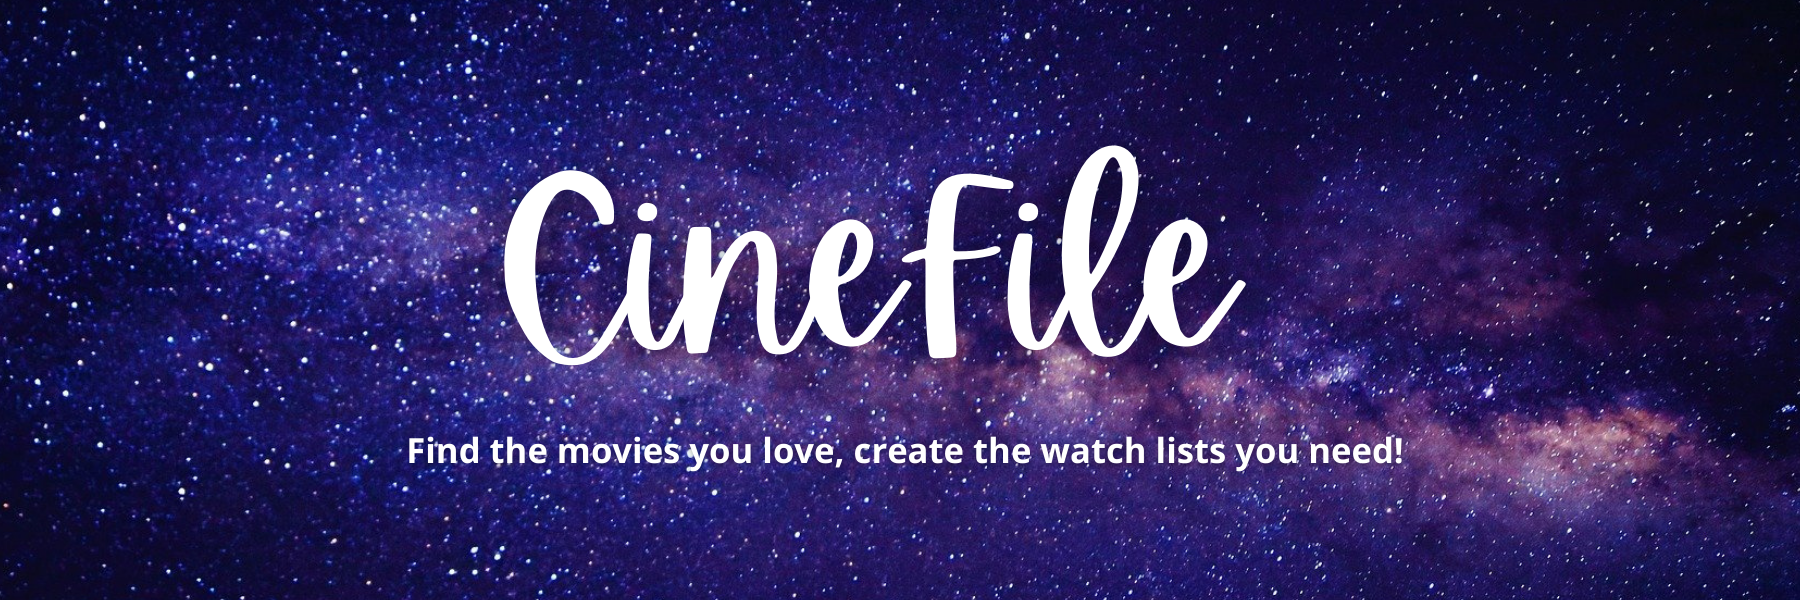
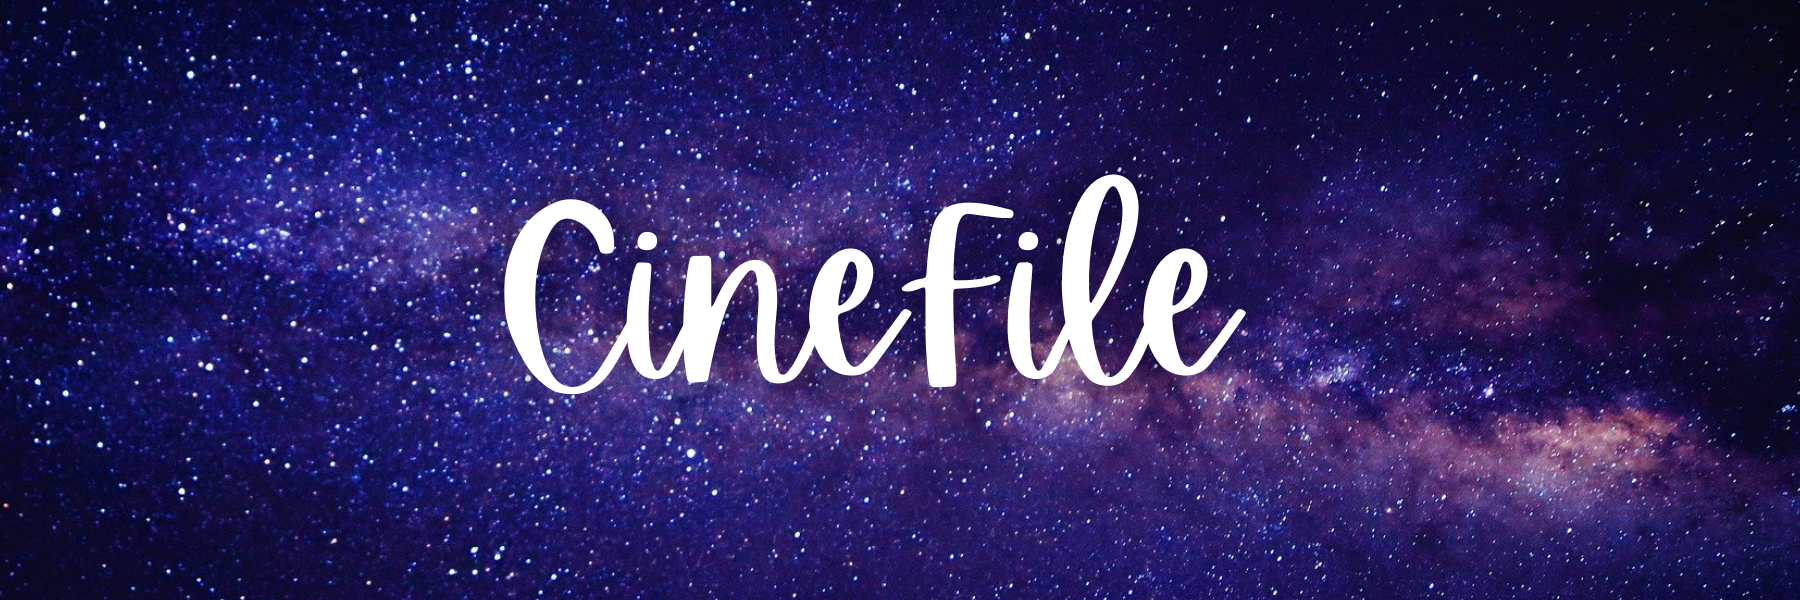
updated css fro all pages

Changed region(s): [[0.28, 0.24, 0.7156, 0.66], [0.2178, 0.72, 0.7778, 0.78]]

diff --git a/index.html b/index.html
@@ -7,15 +7,16 @@
     <title>CineFile</title>
 
     <!--link css files-->
-    <!--<link rel="stylesheet" href="reset.css"> -->
+    <link rel="stylesheet" href="reset.css">
     <link rel="stylesheet" href="https://www.w3schools.com/w3css/4/w3.css">
     <link rel="stylesheet" href="./assets/css/homepg.css">
 </head>
 
 <body>
-    <header class="w3-container w3-black w3-center myHeader">
-        <h1>CineFile</h1>
-        <h4>Find the movies you love, create the watch lists you need!</h4>
+    <header class="w3-black w3-center">
+        <section class="w3-display-container">
+            <img src="assets/images/cinefile-header.png" alt="headerimage" class="w3-image" style="width:100%"> 
+            </section>
         <section class="w3-bar w3-black">
             <a href="./index.html" class="w3-bar-item w3-button">Home</a>
             <a href="./watchlist.html" class="w3-bar-item w3-button">Watch List</a>
@@ -24,23 +25,23 @@
 
     <main class="w3-row-padding w3-margin-top">
         <section class="w3-col m4">
-            <section class="w3-card w3-light-blue w3-padding-small">
+            <section class="w3-card myColors w3-padding-small">
                 <form class="w3-container w3-margin-top" id="searchForm">
-                    <label class="w3-text-black"><b>Search by Movie Name</b></label>
+                    <label class="w3-text-white"><b>Search by Movie Name</b></label>
                     <input class="w3-input w3-border w3-light-grey w3-margin-bottom" id="searchMovie" type="text">
                     <section class="w3-bar w3-center w3-margin-bottom">
-                        <button class="w3-button w3-black w3-hover-blue-gray w3-round-xxlarge submitButton"
+                        <button class="w3-button w3-hover-black w3-round-xxlarge submitButton"
                             id="movieSubmit">Submit</button>
                     </section>
 
-                    <label class="w3-text-black" w3-center><b>Search by Actor Name</b></label>
+                    <label class="w3-text-white" w3-center><b>Search by Actor Name</b></label>
                     <input class="w3-input w3-border w3-light-grey w3-margin-bottom" id="searchActor" type="text">
                     <section class="w3-bar w3-center w3-margin-bottom">
-                        <button class="w3-button w3-black w3-hover-blue-gray w3-round-xxlarge submitButton"
+                        <button class="w3-button w3-hover-black w3-round-xxlarge submitButton"
                             id="actorSubmit">Submit</button>
                     </section>
 
-                    <label class="w3-text-black"><b>Search by Genre and Year</b></label>
+                    <label class="w3-text-white"><b>Search by Genre and Year</b></label>
                     <select class="w3-select w3-margin-bottom" name="option" id="genreDropDown">
                         <option value="" disabled selected>Choose Genre</option>
                         <option value="28">Action</option>
@@ -54,16 +55,16 @@
                         <option value="99">Documentary</option>
                     </select>
 
-                    <label class="w3-text-black"><b>Search by Year(Optional)</b></label>
+                    <label class="w3-text-white"><b>Search by Year(Optional)</b></label>
                     <input class="w3-input w3-border w3-light-grey w3-margin-bottom" id="searchYear" type="text"
                         maxlength="4">
 
                 </form>
 
                 <section class="w3-bar w3-center w3-margin-bottom genreYearBtn">
-                    <button class="w3-button w3-black w3-hover-blue-gray w3-round-xxlarge submitButton"
+                    <button class="w3-button w3-hover-black w3-round-xxlarge submitButton"
                         id="genreSubmit">Submit</button>
-                    <button class="w3-button w3-black w3-hover-blue-gray w3-round-xxlarge submitButton"
+                    <button class="w3-button w3-hover-black w3-round-xxlarge submitButton"
                         id="resetButton">Reset</button>
                 </section>
 
@@ -90,8 +91,8 @@
         </section>
 
         <section class="w3-col m8">
-            <section class="w3-card w3-light-blue w3-padding-small">
-                <h1 class="w3-center" id="myResults">Results</h1>
+            <section class="w3-card myColors w3-padding-small">
+                <h1 class="w3-center w3-text-white" id="myResults">Results</h1>
                 <!--the following section will hold dynamically generated error messages when needed-->
                 <p class="w3-center w3-text-red" id="errorMessage"></p>
                 <!--the following section will hold the dynamically created movie results-->

diff --git a/watchlist.html b/watchlist.html
@@ -6,14 +6,16 @@
         <title>CineFile</title>
 
         <!--link css files-->
-        <!--<link rel="stylesheet" href="reset.css"> -->
+        <link rel="stylesheet" href="reset.css">
         <link rel="stylesheet" href="https://www.w3schools.com/w3css/4/w3.css">
+        <link rel="stylesheet" href="./assets/css/watchlist.css">
     </head>
 
     <body>
-        <header class="w3-container w3-black w3-center myHeader">
-           <h1>CineFile</h1>
-            <h4>Find the movies you love, create the watch lists you need!</h4>
+        <header class="w3-black w3-center myHeader">
+            <section class="w3-display-container">
+                <img src="assets/images/cinefile-header.png" alt="headerimage" class="w3-image" style="width:100%"> 
+                </section>    
             <section class="w3-bar w3-black">
                 <a href="./index.html" class="w3-bar-item w3-button">Home</a>
                 <a href="./watchlist.html" class="w3-bar-item w3-button">Watch List</a>
@@ -23,14 +25,14 @@
         <main class="w3-row-padding w3-margin-top">
             <section class="w3-col m4">
                 <!--section to hold dynamically created list of seen movies-->
-             <section class="w3-card w3-light-blue w3-padding" id="moviesSeenResults">
-                 <h1 class="w3-center">Movies Seen</h1>
+             <section class="w3-card myColors w3-padding" id="moviesSeenResults">
+                 <h1 class="w3-center w3-text-white">Movies Seen</h1>
              </section>
             </section>
             <section class="w3-col m8">
                 <!--section to hold dynamically created watchlist-->
-                <section class="w3-card w3-light-blue w3-padding" id="watchListResults">
-                    <h1 class="w3-center">Watch List</h1>
+                <section class="w3-card myColors w3-padding" id="watchListResults">
+                    <h1 class="w3-center w3-text-white">Watch List</h1>
                 </section>
 
             </section>

diff --git a/movie-detail.html b/movie-detail.html
@@ -5,28 +5,24 @@
     <meta charset="UTF-8">
     <meta name="viewport" content="width=device-width, initial-scale=1.0">
     <title>CineFile</title>
+    <link rel="stylesheet" href="reset.css">
     <link rel="stylesheet" href="https://www.w3schools.com/w3css/4/w3.css">
-
+    <link rel="stylesheet" href="./assets/css/md-style.css">
 
 </head>
 
 <body>
-    <header class="w3-container w3-black w3-center">
-        <h1>CineFile</h1>
-        <h4>Find the movies you love, create the watch lists you need!</h4>
+    <header class="w3-black w3-center">
+        <section class="w3-display-container">
+            <img src="assets/images/cinefile-header.png" alt="headerimage" class="w3-image" style="width:100%"> 
+            </section>
         <section class="w3-bar w3-black">
             <a href="./index.html" class="w3-bar-item w3-button">Home</a>
-            <a href="./watchlist.html" class="w3-bar-item w3-button w3-hide-small">Watch List</a>
-            <a href="javascript:void(0)" class="w3-bar-item w3-button w3-right w3-hide-large w3-hide-medium"
-                onclick="myFunction()">&#9776;</a>
-        </section>
-        <section id="demo" class="w3-bar-block w3-red w3-hide w3-hide-large w3-hide-medium">
-            <a href="#" class="w3-bar-item w3-button">Watch List</a>
-            <a href="#" class="w3-bar-item w3-button">Movies Seen</a>
+            <a href="./watchlist.html" class="w3-bar-item w3-button">Watch List</a>
         </section>
     </header>
 
-    <main class="w3-container w3-light-blue">
+    <main class="w3-container">
         <div class="w3-cell-row">
             <div class="w3-cell-bottom">
                 <img id="poster" class="w3-round w3-margin" alt="Movie Poster"></img>
@@ -49,7 +45,7 @@
             </div>
         </div>
     </main>
-    <article class="w3-container w3-light-blue w3-center">
+    <article class="w3-container myColors w3-center">
         <h3 class="w3-black">
             Youtube Trailer
         </h3>

diff --git a/assets/css/reset.css b/assets/css/reset.css
@@ -1,0 +1,48 @@
+/* http://meyerweb.com/eric/tools/css/reset/ 
+   v2.0 | 20110126
+   License: none (public domain)
+*/
+
+html, body, div, span, applet, object, iframe,
+h1, h2, h3, h4, h5, h6, p, blockquote, pre,
+a, abbr, acronym, address, big, cite, code,
+del, dfn, em, img, ins, kbd, q, s, samp,
+small, strike, strong, sub, sup, tt, var,
+b, u, i, center,
+dl, dt, dd, ol, ul, li,
+fieldset, form, label, legend,
+table, caption, tbody, tfoot, thead, tr, th, td,
+article, aside, canvas, details, embed, 
+figure, figcaption, footer, header, hgroup, 
+menu, nav, output, ruby, section, summary,
+time, mark, audio, video {
+	margin: 0;
+	padding: 0;
+	border: 0;
+	font-size: 100%;
+	font: inherit;
+	vertical-align: baseline;
+}
+/* HTML5 display-role reset for older browsers */
+article, aside, details, figcaption, figure, 
+footer, header, hgroup, menu, nav, section {
+	display: block;
+}
+body {
+	line-height: 1;
+}
+ol, ul {
+	list-style: none;
+}
+blockquote, q {
+	quotes: none;
+}
+blockquote:before, blockquote:after,
+q:before, q:after {
+	content: '';
+	content: none;
+}
+table {
+	border-collapse: collapse;
+	border-spacing: 0;
+}

diff --git a/assets/css/homepg.css b/assets/css/homepg.css
@@ -1,5 +1,6 @@
 .submitButton {
     outline: none;
+    background-color: rgb(176, 207, 235);
 }
 
 .hidden {
@@ -15,8 +16,6 @@
     font-size: 15px;
 }
 
-/*
-.myHeader {
-    background-image: url(../assets/images/header-background-img.jpg);
+.myColors {
+    background-color: rgb(16, 24, 99);
 }
-/*

diff --git a/assets/css/md-style.css b/assets/css/md-style.css
@@ -10,3 +10,7 @@ img{
 button{
     margin-top:5px
 }
+
+.myColors {
+    background-color: rgb(16, 24, 99);
+}

diff --git a/assets/css/watchlist.css b/assets/css/watchlist.css
@@ -1,0 +1,4 @@
+.myColors {
+    background-color: rgb(16, 24, 99);
+
+}
